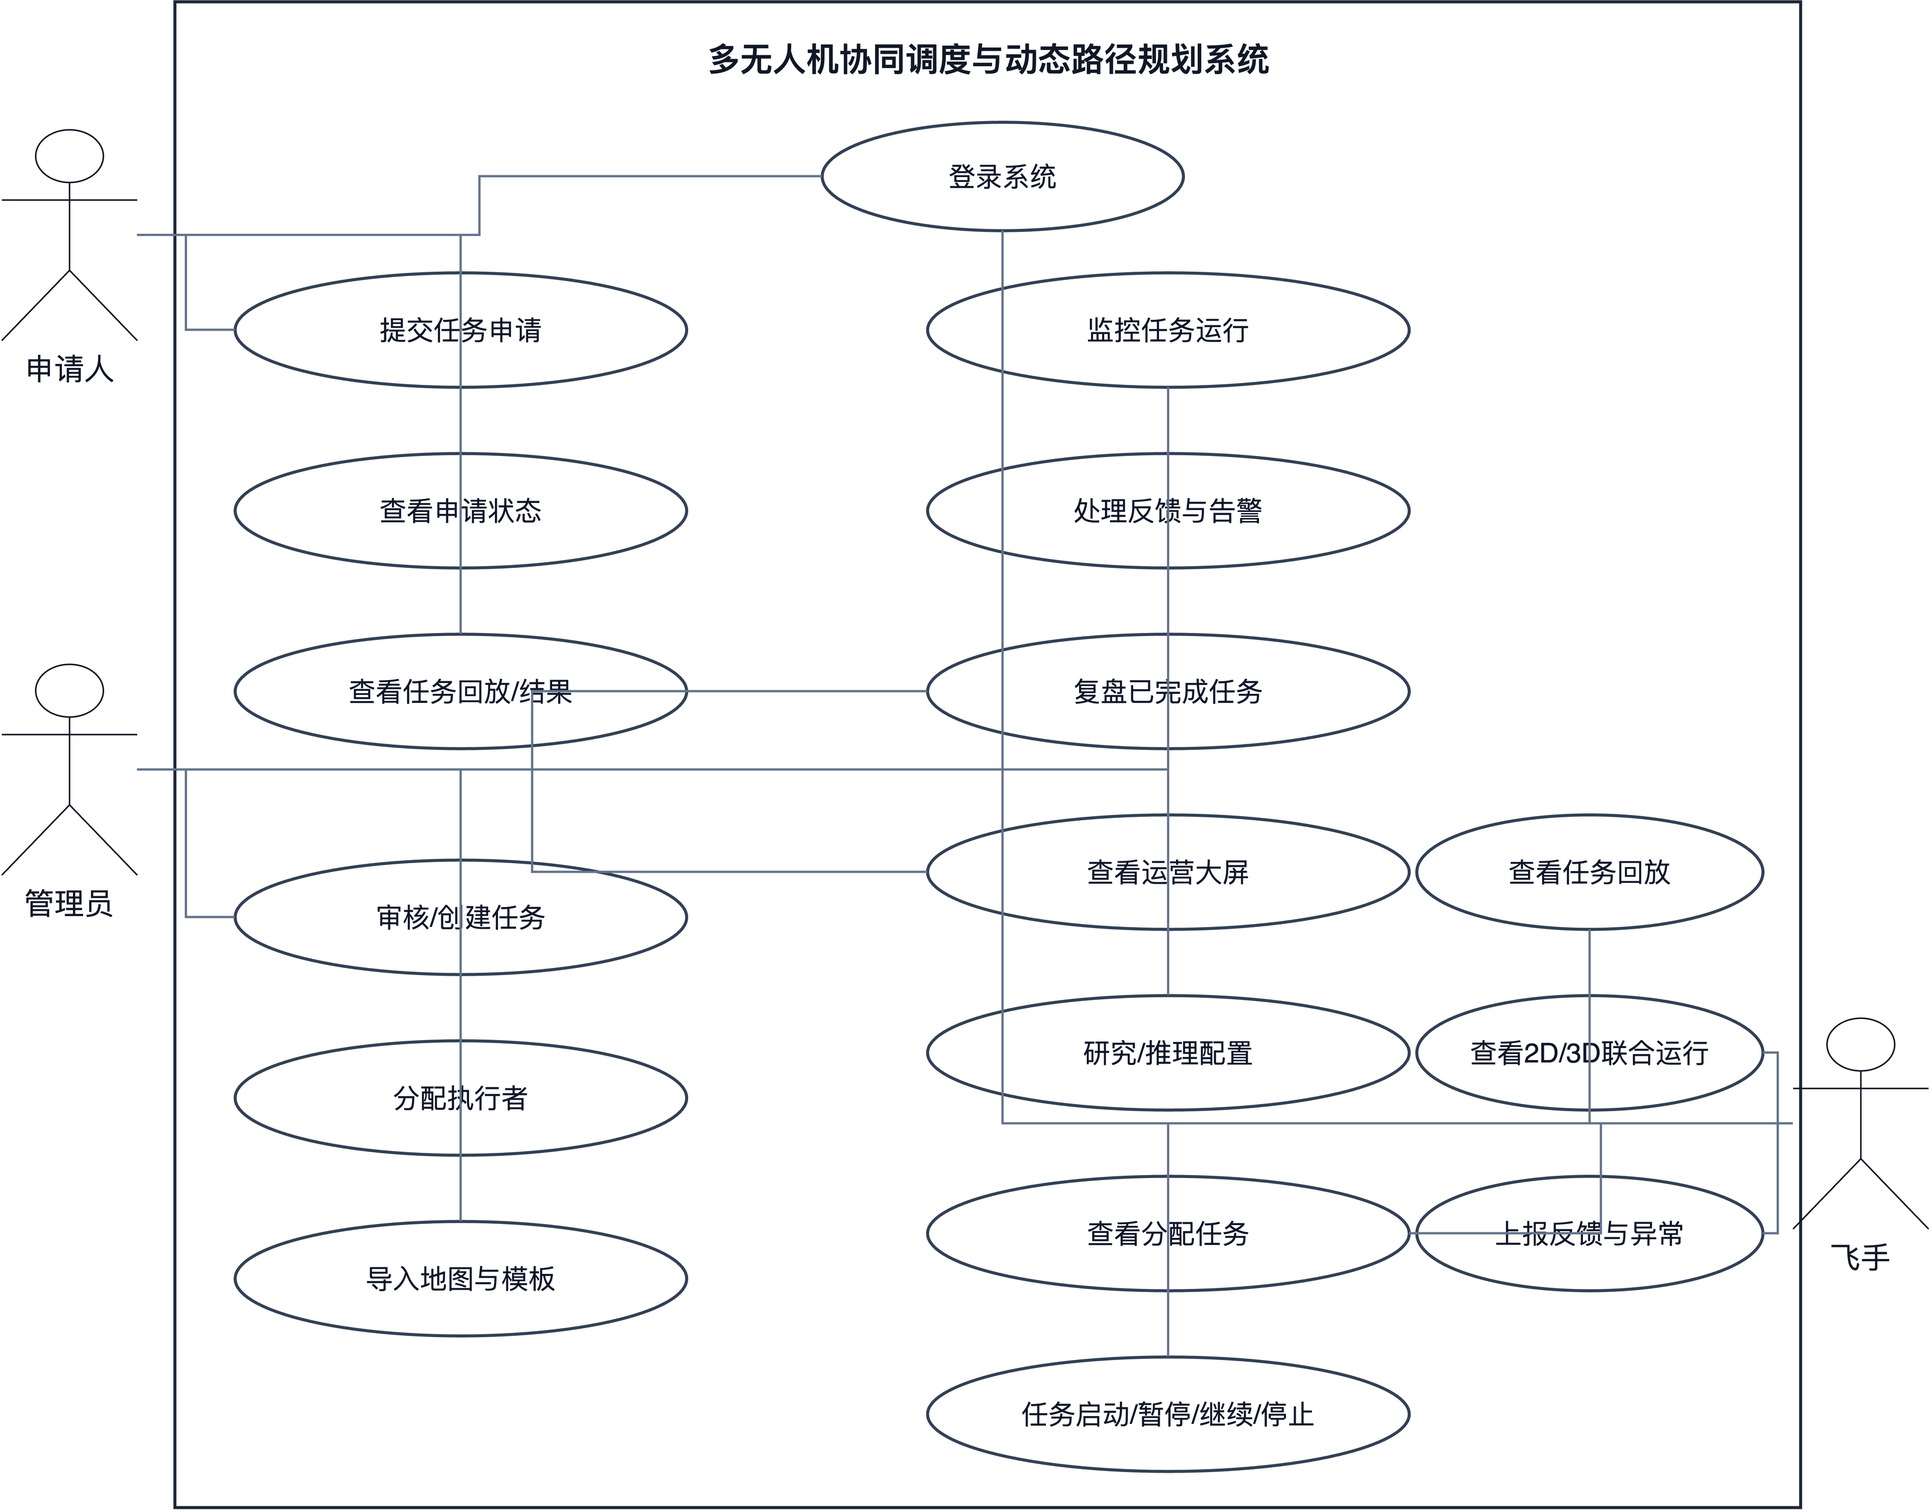
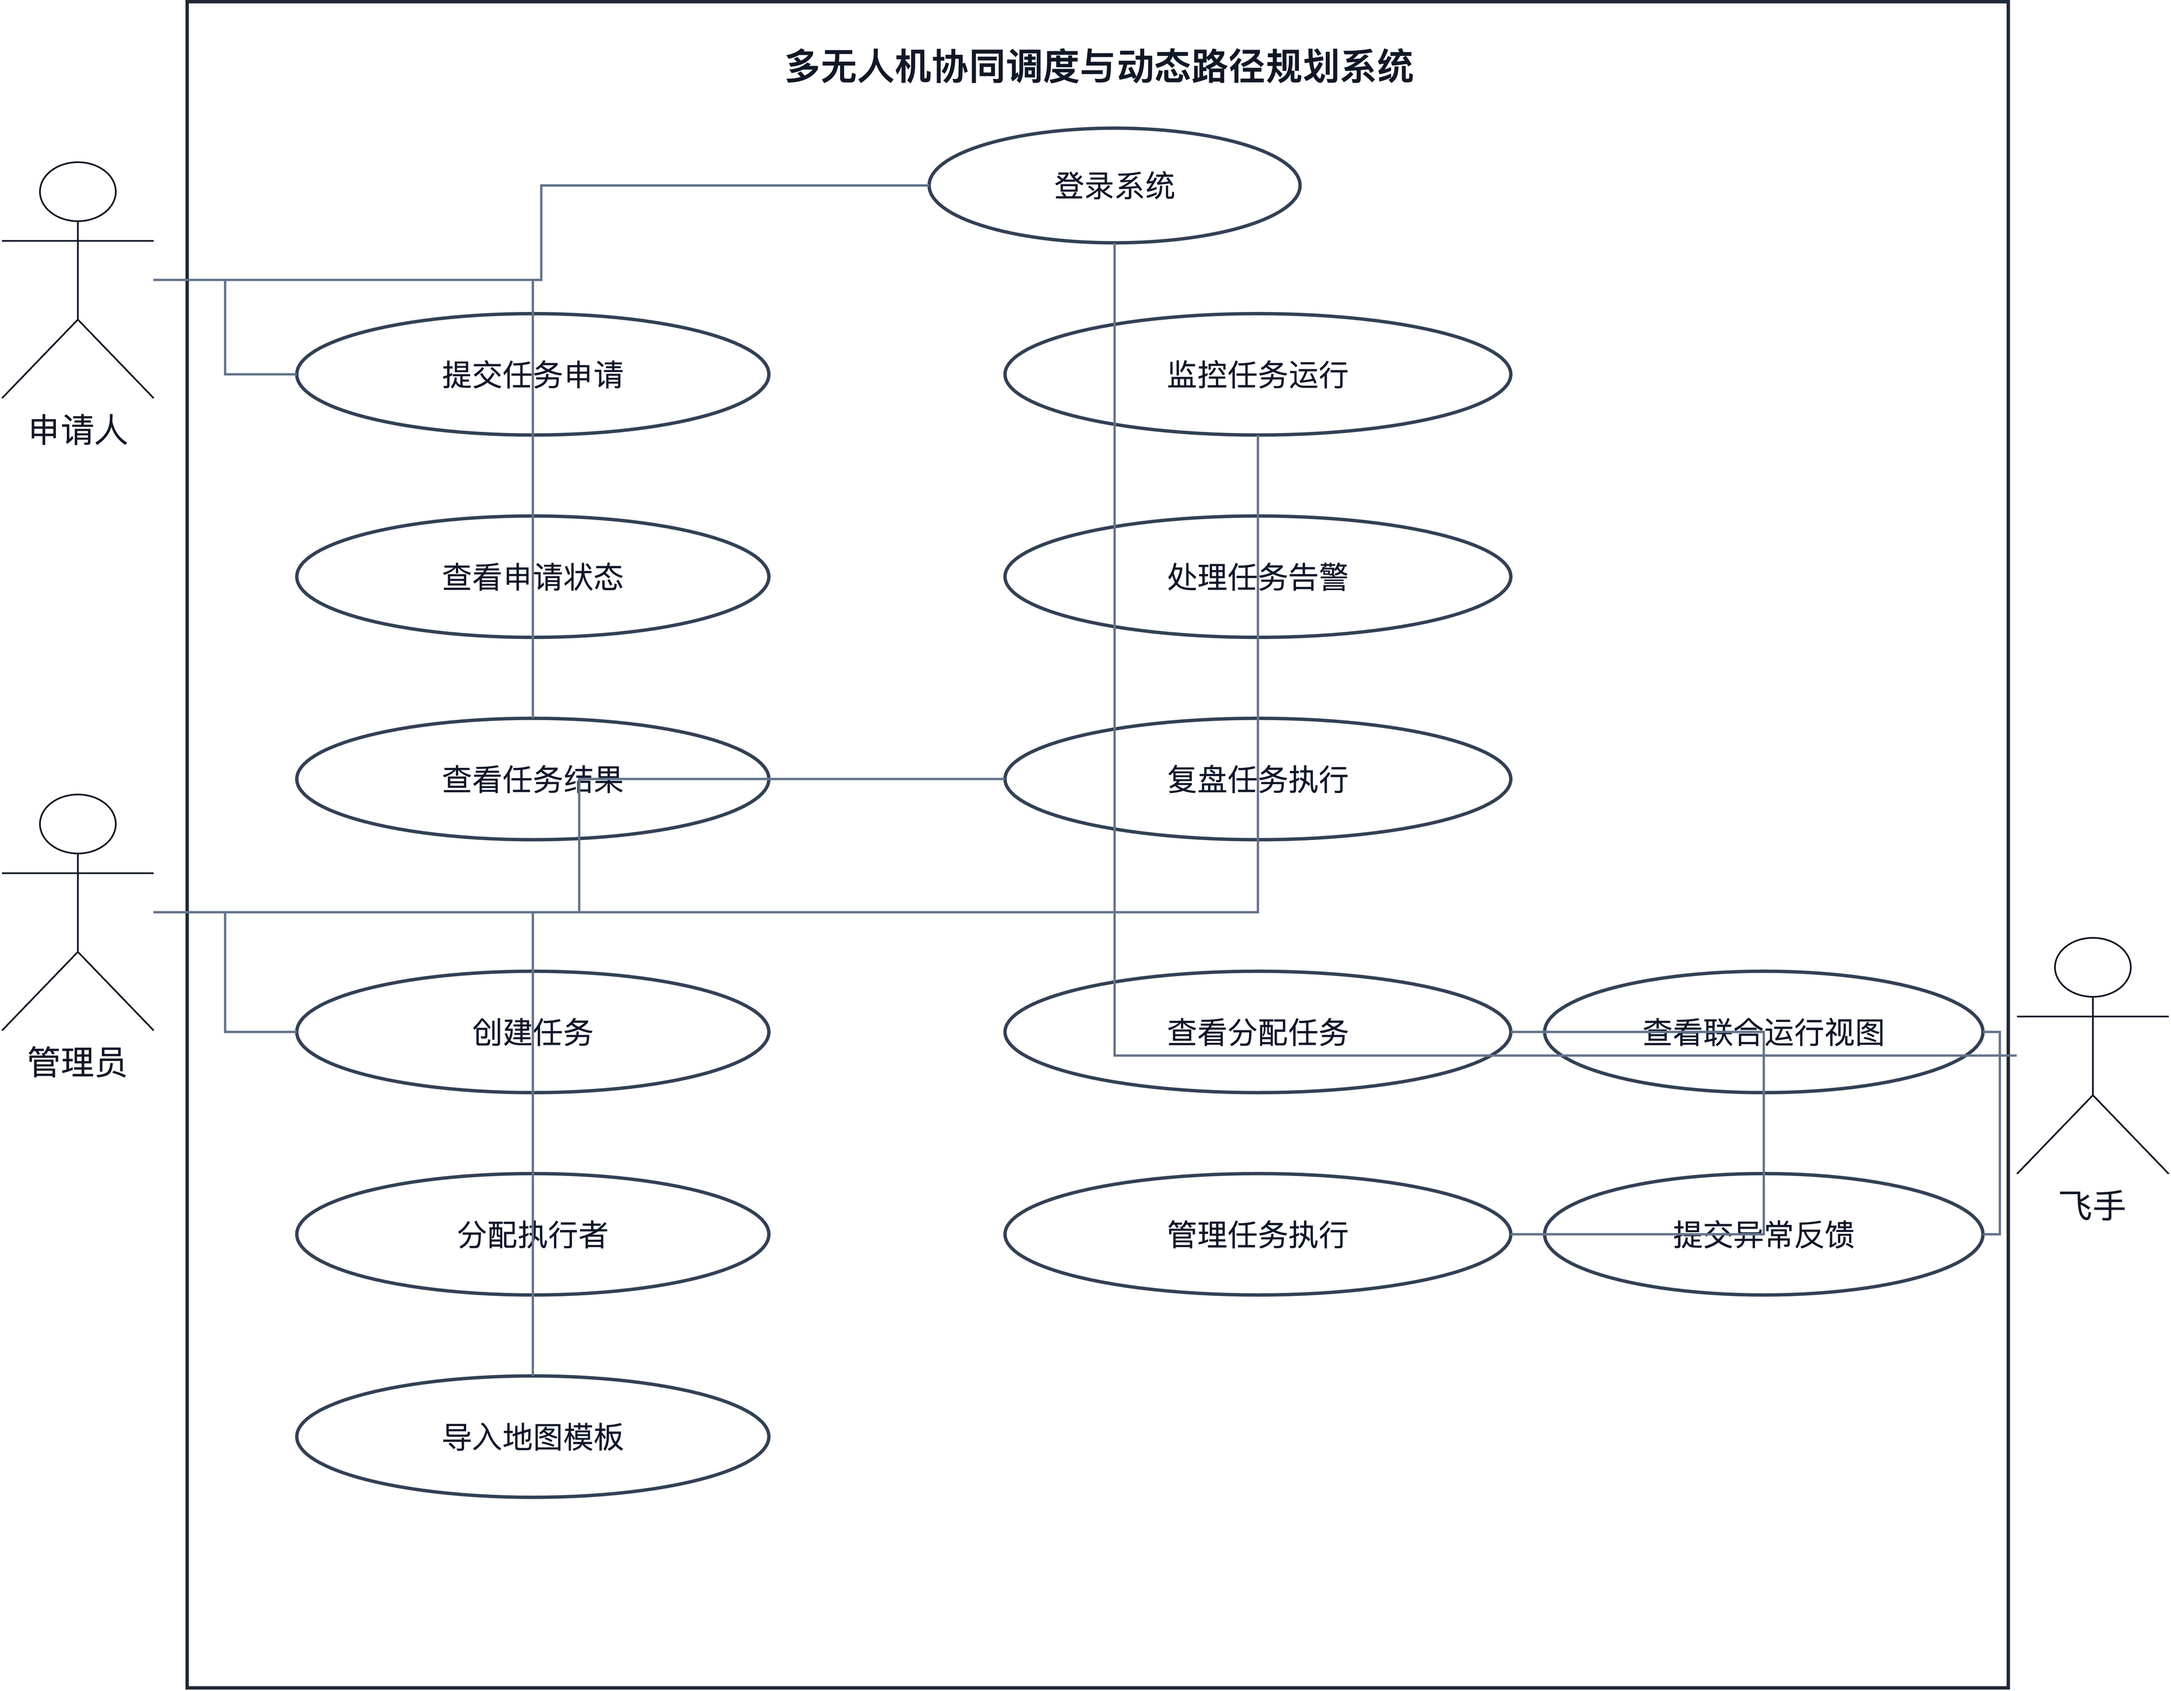
Refine thesis use case diagram for UML compliance

diff --git a/解疑.md b/解疑.md
@@ -275,6 +275,41 @@
   - `.png` 文件用于论文或答辩 PPT 直接插图。
 - 本次图片由本机已安装的 `cli-anything-drawio` 调用 `draw.io.app` 导出，已验证导出链路可用。
 
+## 30. 为什么这次又调整了用例图命名和布局
+
+- 因为上一版虽然已经能看，但按 UML 2.5.1 的用例图规范检查后，仍有几个不够标准的地方：
+  - 个别用例名不是标准动宾结构；
+  - 个别用例把多个动作合并在一个椭圆里；
+  - 有些名称更像页面入口，而不是参与者获得的完整功能价值；
+  - 连线仍然有压在视觉核心区的情况。
+- 因此这次按“更适合论文正式稿”的标准做了二次收敛：
+  - 把用例统一改成更标准的动宾结构；
+  - 删除偏页面入口语义的用例；
+  - 收紧用例数量，降低线条交叉和重叠风险；
+  - 重新按“申请人 / 管理员 / 飞手 / 共享登录”四个区域排版。
+
+## 31. 当前论文正式版用例图采用了哪些规范化名称
+
+- 当前图中的主要用例名称调整为：
+  - `登录系统`
+  - `提交任务申请`
+  - `查看申请状态`
+  - `查看任务结果`
+  - `创建任务`
+  - `分配执行者`
+  - `导入地图模板`
+  - `监控任务运行`
+  - `处理任务告警`
+  - `复盘任务执行`
+  - `查看分配任务`
+  - `管理任务执行`
+  - `查看联合运行视图`
+  - `提交异常反馈`
+- 这样调整后的好处是：
+  - 名称更符合 UML 用例图“动词 + 名词”的表达习惯；
+  - 每个椭圆更接近“一个完整功能”而不是“一个页面”或“一组按钮”；
+  - 更适合直接放进毕业论文正文。
+
 ## 27. 为什么这次前端重构要删除很多“小字提示”
 
 - 目标不是单纯“删字”，而是把页面从“演示说明界面”收紧成“真实运营工作台”。

diff --git a/MODIFICATIONS_CN.md b/MODIFICATIONS_CN.md
@@ -432,3 +432,26 @@
   - 解释为什么论文用例图采用“申请人 / 管理员 / 飞手”三类参与者；
   - 解释本次用例图纳入的核心功能边界；
   - 记录新增图文件的存放位置和用途。
+
+### 21.5 按 UML 规范二次整理图面
+
+- 针对上一版用例图继续做了论文正式稿优化，重点是提升 UML 规范一致性与可读性。
+- 主要调整：
+  - 删除偏“页面入口”语义的用例：
+    - `查看运营大屏`
+    - `研究/推理配置`
+  - 将部分名称收敛为更标准的动宾结构：
+    - `查看任务回放/结果` -> `查看任务结果`
+    - `审核/创建任务` -> `创建任务`
+    - `导入地图与模板` -> `导入地图模板`
+    - `处理反馈与告警` -> `处理任务告警`
+    - `复盘已完成任务` -> `复盘任务执行`
+    - `任务启动/暂停/继续/停止` -> `管理任务执行`
+    - `查看2D/3D联合运行` -> `查看联合运行视图`
+    - `上报反馈与异常` -> `提交异常反馈`
+  - 删除冗余用例 `查看任务回放`，避免与 `查看任务结果` 语义重叠并增加线条交叉
+  - 重新按“申请人区 / 管理员区 / 飞手区 / 共享登录”布局，用更少的用例覆盖更清晰的核心功能
+- 结果：
+  - 当前图面更贴近 UML 用例图命名规范；
+  - 线条交叉和压线情况进一步减少；
+  - 更适合作为毕业论文中的正式插图使用。
